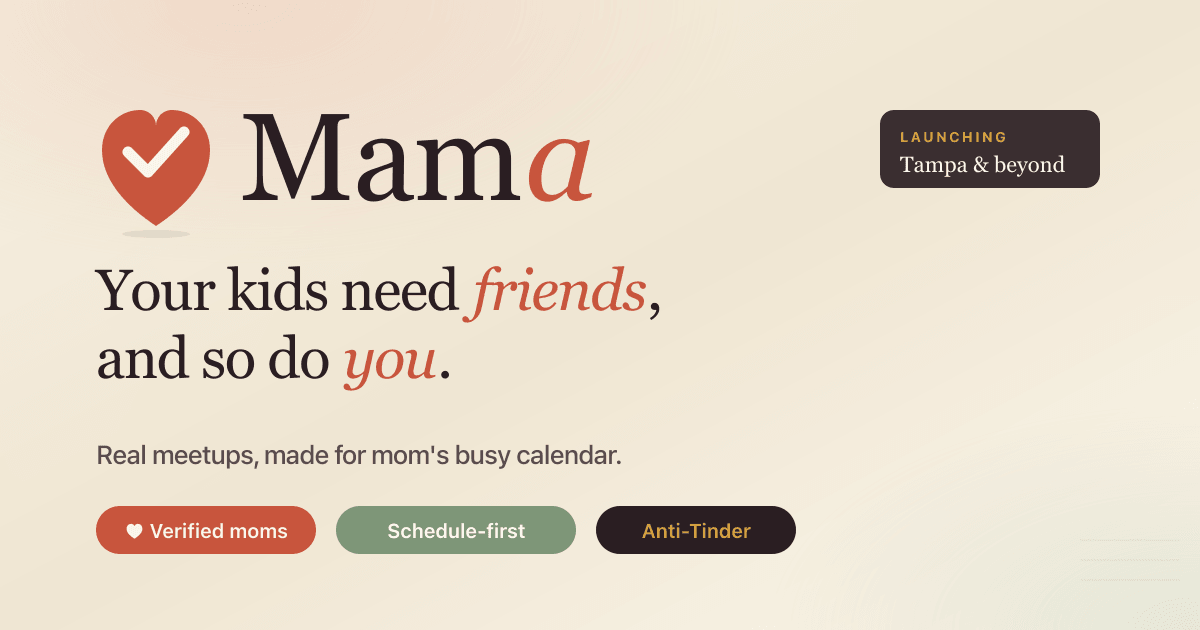
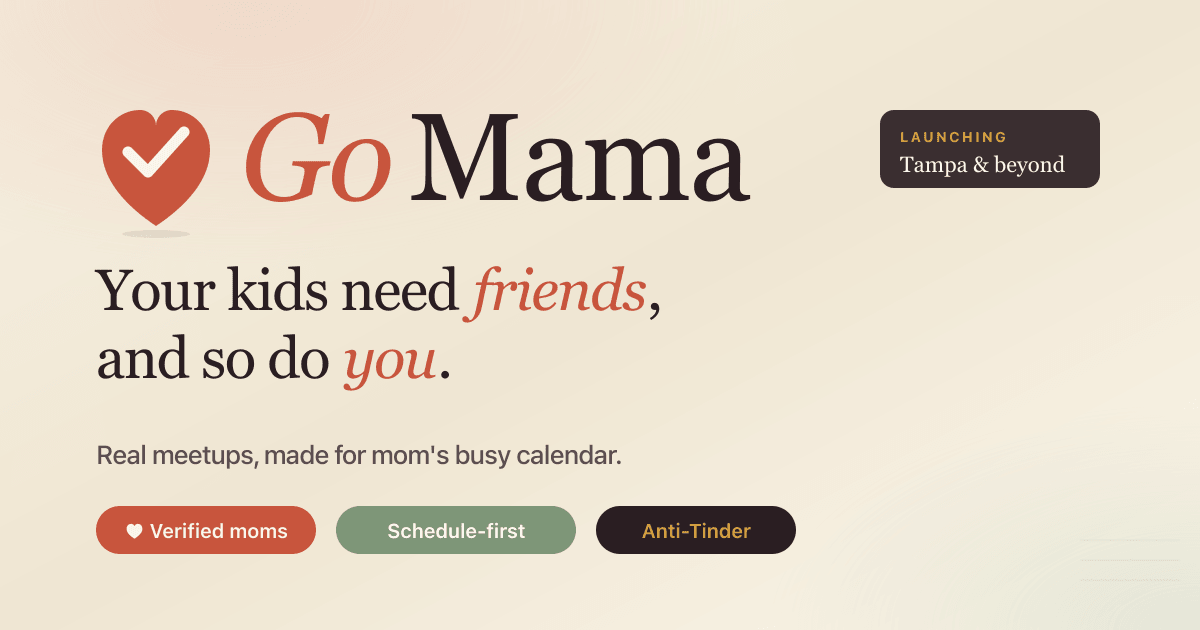
brand: rebrand Mama → Go Mama across the app
Updates user-facing brand text everywhere "Mama" referred to the app
itself (not the noun "mama" meaning a mom):
- index.html: title + all OG / Twitter / Apple meta tags
- public/og-image.svg: wordmark now "Go" italic terracotta + "Mama"
  ink (followed brand rule of italic-colored emphasis on one word).
  PNG re-rendered at 1200×630.
- Splash screen: hero italic-Mama → italic-GoMama, "Already a Mama?"
  → "Already on Go Mama?"
- WaitlistPage: nav, footer, hero h1, "Why Mama" link, body copy
  ("Mama starts with…" / "let Mama find…"), placeholder city.
- AdminPage header.
- PremiumSheet: "Mama Plus" → "Go Mama Plus".
- ScheduleSheet: "keeps Mama trustworthy" → "keeps Go Mama trustworthy".
- AccountScreen + CreateAccountSheet: "I agree to Mama's Terms" →
  "I agree to Go Mama's Terms".
- Screen2: "How Mama works" → "How Go Mama works".
- Screen4: "try Mama first" → "try Go Mama first".
- App.jsx: premium trial toast.
- theme.js header comment.
- README, package.json (mama-app → go-mama-app).

Code identifier rename:
- src/components/icons/MamaLogo.jsx → GoMamaLogo.jsx (git mv keeps
  history). Component MamaLogo → GoMamaLogo. All importers updated
  (Splash, WaitlistPage).

Intentionally kept "Mama" as a noun in:
- firstName fallbacks ('Mama' meaning "an unnamed mom")
- placeholder example text ("Mama's Kitchen") that reads as a generic
  example name, not a brand reference.

Changed region(s): [[0.185, 0.181, 0.6475, 0.3317]]

diff --git a/src/WaitlistPage.jsx b/src/WaitlistPage.jsx
@@ -13,7 +13,7 @@ import {
   Users,
   X,
 } from 'lucide-react';
-import { MamaLogo } from './components/icons/MamaLogo';
+import { GoMamaLogo } from './components/icons/GoMamaLogo';
 import './waitlist.css';
 
 const WAITLIST_KEY = 'mama_waitlist_entries';
@@ -21,7 +21,7 @@ const WAITLIST_KEY = 'mama_waitlist_entries';
 const featureCards = [
   {
     title: 'Calendar-first matches',
-    body: 'Mama starts with the hours you can actually meet, then looks for moms nearby.',
+    body: 'Go Mama starts with the hours you can actually meet, then looks for moms nearby.',
     icon: CalendarDays,
   },
   {
@@ -152,7 +152,7 @@ export const WaitlistPage = ({ onOpenPrototype }) => {
             <div className="wl-phone-notch" />
             <div className="wl-phone-screen">
               <div className="wl-app-top">
-                <span>Mama</span>
+                <span>Go Mama</span>
                 <ShieldCheck size={14} />
               </div>
               <div className="wl-match-card">
@@ -191,8 +191,8 @@ export const WaitlistPage = ({ onOpenPrototype }) => {
 
         <nav className="wl-nav" aria-label="Primary">
           <a className="wl-brand" href="#top" onClick={closeNav}>
-            <MamaLogo size={42} />
-            <span>Mama</span>
+            <GoMamaLogo size={42} />
+            <span>Go Mama</span>
           </a>
 
           <button
@@ -205,7 +205,7 @@ export const WaitlistPage = ({ onOpenPrototype }) => {
           </button>
 
           <div className={`wl-nav-links ${navOpen ? 'is-open' : ''}`}>
-            <a href="#why" onClick={closeNav}>Why Mama</a>
+            <a href="#why" onClick={closeNav}>Why Go Mama</a>
             <a href="#launch" onClick={closeNav}>Launch cities</a>
             <a href="/prototype" onClick={handlePrototypeLink}>
               View prototype
@@ -219,7 +219,7 @@ export const WaitlistPage = ({ onOpenPrototype }) => {
             <Sparkles size={16} />
             Private beta waitlist
           </div>
-          <h1>Mama</h1>
+          <h1>Go Mama</h1>
           <p className="wl-lede">
             Meet nearby moms around real free time, shared values, kid-stage fit,
             and places you would actually go.
@@ -323,7 +323,7 @@ export const WaitlistPage = ({ onOpenPrototype }) => {
             </div>
             <div>
               <Check size={18} />
-              <p>Pick a suggested place or let Mama find a neutral spot.</p>
+              <p>Pick a suggested place or let Go Mama find a neutral spot.</p>
             </div>
             <div>
               <Check size={18} />
@@ -357,8 +357,8 @@ export const WaitlistPage = ({ onOpenPrototype }) => {
       <footer className="wl-footer">
         <div className="wl-footer-inner">
           <div>
-            <MamaLogo size={34} />
-            <span>Mama</span>
+            <GoMamaLogo size={34} />
+            <span>Go Mama</span>
           </div>
           <a href="/prototype" onClick={handlePrototypeLink}>
             View prototype

diff --git a/index.html b/index.html
@@ -5,12 +5,12 @@
     <meta name="viewport" content="width=device-width, initial-scale=1.0, maximum-scale=1.0, user-scalable=no" />
     <meta name="theme-color" content="#F6EFE2" />
 
-    <title>Mama · Real friendship for moms</title>
-    <meta name="description" content="Your kids need friends, and so do you. Mama is a verified mom-friendship app built for real meetups, not endless chat. Now welcoming Tampa, FL." />
+    <title>Go Mama · Real friendship for moms</title>
+    <meta name="description" content="Your kids need friends, and so do you. Go Mama is a verified mom-friendship app built for real meetups, not endless chat. Now welcoming Tampa, FL." />
 
     <!-- Open Graph (Facebook, iMessage, LinkedIn, WhatsApp, Slack, Discord) -->
-    <meta property="og:site_name" content="Mama" />
-    <meta property="og:title" content="Mama · Your kids need friends, and so do you." />
+    <meta property="og:site_name" content="Go Mama" />
+    <meta property="og:title" content="Go Mama · Your kids need friends, and so do you." />
     <meta property="og:description" content="Verified mom-friendship app. Real meetups, made for mom's busy calendar. Now welcoming Tampa, FL." />
     <meta property="og:type" content="website" />
     <meta property="og:url" content="https://gomama.app/" />
@@ -19,18 +19,18 @@
     <meta property="og:image:type" content="image/png" />
     <meta property="og:image:width" content="1200" />
     <meta property="og:image:height" content="630" />
-    <meta property="og:image:alt" content="Mama — Real friendship for moms. Now launching in Tampa, FL." />
+    <meta property="og:image:alt" content="Go Mama — Real friendship for moms. Now launching in Tampa, FL." />
     <meta property="og:locale" content="en_US" />
 
     <!-- Twitter / X -->
     <meta name="twitter:card" content="summary_large_image" />
-    <meta name="twitter:title" content="Mama · Your kids need friends, and so do you." />
+    <meta name="twitter:title" content="Go Mama · Your kids need friends, and so do you." />
     <meta name="twitter:description" content="Verified mom-friendship app. Real meetups, made for mom's busy calendar. Now welcoming Tampa, FL." />
     <meta name="twitter:image" content="https://gomama.app/og-image.png" />
-    <meta name="twitter:image:alt" content="Mama — Real friendship for moms" />
+    <meta name="twitter:image:alt" content="Go Mama — Real friendship for moms" />
 
     <!-- iOS / Apple share-sheet hint -->
-    <meta name="apple-mobile-web-app-title" content="Mama" />
+    <meta name="apple-mobile-web-app-title" content="Go Mama" />
     <meta name="apple-mobile-web-app-capable" content="yes" />
     <meta name="apple-mobile-web-app-status-bar-style" content="default" />
 

diff --git a/src/screens/Splash.jsx b/src/screens/Splash.jsx
@@ -1,6 +1,6 @@
 import { ArrowRight } from 'lucide-react';
 import { C } from '../theme';
-import { MamaLogo } from '../components/icons/MamaLogo';
+import { GoMamaLogo } from '../components/icons/GoMamaLogo';
 import { StatusBar } from '../components/StatusBar';
 import { PrimaryBtn } from '../components/PrimaryBtn';
 
@@ -33,7 +33,7 @@ export const Splash = ({ onBegin, onSignIn }) => (
     <div className="flex-1 flex flex-col items-center justify-center px-7" style={{ position:'relative', zIndex: 1 }}>
       {/* Logo mark */}
       <div style={{ animation: 'fadeInUp .8s .1s ease both' }}>
-        <MamaLogo size={88}/>
+        <GoMamaLogo size={88}/>
       </div>
 
       {/* Wordmark — smaller than before, sits under the logo */}
@@ -70,7 +70,7 @@ export const Splash = ({ onBegin, onSignIn }) => (
           fontFamily:'Fraunces', fontSize: 14, fontWeight: 400,
           color: C.inkSoft, letterSpacing:'-.005em', lineHeight: 1.4,
         }}>
-          <span style={{ fontStyle:'italic', color: C.terracotta, fontWeight: 500 }}>Mama</span> will make it happen.
+          <span style={{ fontStyle:'italic', color: C.terracotta, fontWeight: 500 }}>Go Mama</span> will make it happen.
         </div>
       </div>
     </div>
@@ -93,7 +93,7 @@ export const Splash = ({ onBegin, onSignIn }) => (
       <PrimaryBtn onClick={onBegin}>Begin <ArrowRight size={18}/></PrimaryBtn>
 
       <div className="mt-3 text-center text-[11.5px]" style={{ fontFamily:'Albert Sans', color: C.inkSoft }}>
-        Already a Mama?{' '}
+        Already on Go Mama?{' '}
         <button onClick={onSignIn} style={{
           color: C.terracotta, fontWeight: 600, textDecoration: 'underline',
           background: 'transparent', border: 'none', padding: 0, cursor: 'pointer', font: 'inherit',

diff --git a/src/AdminPage.jsx b/src/AdminPage.jsx
@@ -5,7 +5,7 @@ import {
 import { C } from './theme';
 
 // ============================================================================
-// Mama · Admin dashboard at /#admin (or /admin via Vercel rewrite).
+// Go Mama · Admin dashboard at /#admin (or /admin via Vercel rewrite).
 // SECURITY: this dashboard has NO authentication. Anyone with the URL can read
 // PII. Add auth before publishing the URL anywhere.
 // ============================================================================
@@ -446,7 +446,7 @@ export const AdminPage = () => {
           <div className="rounded-lg w-9 h-9 flex items-center justify-center" style={{ background: C.ink, color: C.saffron, fontFamily: 'Fraunces', fontSize: 18, fontWeight: 600 }}>M</div>
           <div className="flex-1">
             <h1 style={{ fontFamily: 'Fraunces', fontSize: 22, fontWeight: 500, color: C.ink, letterSpacing: '-.02em', lineHeight: 1 }}>
-              Mama · Admin
+              Go Mama · Admin
             </h1>
             <div className="text-[11px]" style={{ fontFamily: 'Albert Sans', color: C.inkMuted }}>
               Market study dashboard · {loading ? 'loading…' : moms ? `${moms.length} profiles · ${waitlist?.length || 0} waitlist` : ''}

diff --git a/src/App.jsx b/src/App.jsx
@@ -225,7 +225,7 @@ function PrototypeApp() {
             onClose={()=>setPremiumOpen(false)}
             onActivate={()=>{
               setAccount(a => ({ ...(a || { firstName: 'Mama' }), isPremium: true, trialEndsAt: Date.now() + 7*24*3600*1000 }));
-              flash('✦ Welcome to Mama Plus · 7-day trial started');
+              flash('✦ Welcome to Go Mama Plus · 7-day trial started');
             }}/>}
           </>)}
 

diff --git a/src/screens/AccountScreen.jsx b/src/screens/AccountScreen.jsx
@@ -247,7 +247,7 @@ export const AccountScreen = ({ onBack, account, onComplete, flash }) => {
             {agreed && <Check size={12} color="#fff" strokeWidth={3}/>}
           </div>
           <div className="text-[11.5px]" style={{ fontFamily:'Albert Sans', color: C.inkSoft, lineHeight:1.4 }}>
-            I agree to Mama's <span style={{ color: C.terracotta, textDecoration:'underline' }}>Terms</span> and <span style={{ color: C.terracotta, textDecoration:'underline' }}>Community Pact</span>.
+            I agree to Go Mama's <span style={{ color: C.terracotta, textDecoration:'underline' }}>Terms</span> and <span style={{ color: C.terracotta, textDecoration:'underline' }}>Community Pact</span>.
           </div>
         </button>
 

diff --git a/src/screens/Screen2.jsx b/src/screens/Screen2.jsx
@@ -14,7 +14,7 @@ export const Screen2 = ({ onNext, onBack }) => (
     <div className="flex-1 px-7 flex flex-col">
       <div className="mt-1">
         <div className="text-[11px] tracking-[.2em] uppercase mb-3" style={{ color: C.terracotta, fontFamily:'Albert Sans', fontWeight:600 }}>
-          How Mama works
+          How Go Mama works
         </div>
         <h2 style={{ fontFamily:'Fraunces', fontWeight:400, fontSize: 30, lineHeight:1.1, color: C.ink, letterSpacing:'-.02em' }}>
           You. Time. Place. <span style={{ fontStyle:'italic', color: C.sageDark }}>Match.</span>

diff --git a/src/screens/Screen4.jsx b/src/screens/Screen4.jsx
@@ -245,7 +245,7 @@ export const Screen4 = ({ onNext, onBack, profile, setProfile }) => {
       <div className="px-7 pb-8 pt-3" style={{ background: C.cream }}>
         {canContinue ? (
           <div className="flex items-center justify-center gap-1.5 mb-3 text-[11.5px]" style={{ color: C.inkMuted, fontFamily:'Albert Sans' }}>
-            <Lock size={11}/> No account needed yet — try Mama first.
+            <Lock size={11}/> No account needed yet — try Go Mama first.
           </div>
         ) : (
           <div className="flex items-center justify-center gap-1.5 mb-3 text-[11.5px]" style={{ color: C.terracotta, fontFamily:'Albert Sans', fontWeight:500 }}>

diff --git a/src/sheets/CreateAccountSheet.jsx b/src/sheets/CreateAccountSheet.jsx
@@ -214,7 +214,7 @@ export const CreateAccountSheet = ({ pendingAction, onClose, onComplete }) => {
             {agreed && <Check size={12} color="#fff" strokeWidth={3}/>}
           </div>
           <div className="text-[11.5px]" style={{ fontFamily:'Albert Sans', color: C.inkSoft, lineHeight:1.4 }}>
-            I agree to Mama's <span style={{ color: C.terracotta, textDecoration:'underline' }}>Terms</span> and <span style={{ color: C.terracotta, textDecoration:'underline' }}>Community Pact</span>.
+            I agree to Go Mama's <span style={{ color: C.terracotta, textDecoration:'underline' }}>Terms</span> and <span style={{ color: C.terracotta, textDecoration:'underline' }}>Community Pact</span>.
           </div>
         </button>
 

diff --git a/src/sheets/PremiumSheet.jsx b/src/sheets/PremiumSheet.jsx
@@ -11,7 +11,7 @@ export const PremiumSheet = ({ onClose, onActivate }) => (
         </div>
       </div>
       <h3 className="text-center" style={{ fontFamily:'Fraunces', fontSize: 28, fontWeight:500, letterSpacing:'-.02em' }}>
-        Mama <span style={{ fontStyle:'italic', color: C.saffron }}>Plus</span>
+        Go Mama <span style={{ fontStyle:'italic', color: C.saffron }}>Plus</span>
       </h3>
       <div className="mt-1 text-center text-[13px]" style={{ fontFamily:'Albert Sans', opacity:.75 }}>
         Stay close to the moms you click with.

diff --git a/src/sheets/ScheduleSheet.jsx b/src/sheets/ScheduleSheet.jsx
@@ -48,7 +48,7 @@ export const ScheduleSheet = ({ mom, onClose, onContinue, hasAccount }) => {
         </button>
         <div className="mt-2.5 text-center text-[11.5px] flex items-center justify-center gap-1" style={{ color: C.inkMuted, fontFamily:'Albert Sans' }}>
           {!hasAccount && <ShieldCheck size={11}/>}
-          {hasAccount ? 'Adds to your calendar when she accepts.' : 'Quick verify next — keeps Mama trustworthy.'}
+          {hasAccount ? 'Adds to your calendar when she accepts.' : 'Quick verify next — keeps Go Mama trustworthy.'}
         </div>
       </div>
     </Sheet>

diff --git a/src/theme.js b/src/theme.js
@@ -1,5 +1,5 @@
 // src/theme.js
-// Design tokens — single source of truth for the Mama palette.
+// Design tokens — single source of truth for the Go Mama palette.
 // Imported by every component that styles anything.
 export const C = {
   cream: '#F6EFE2',